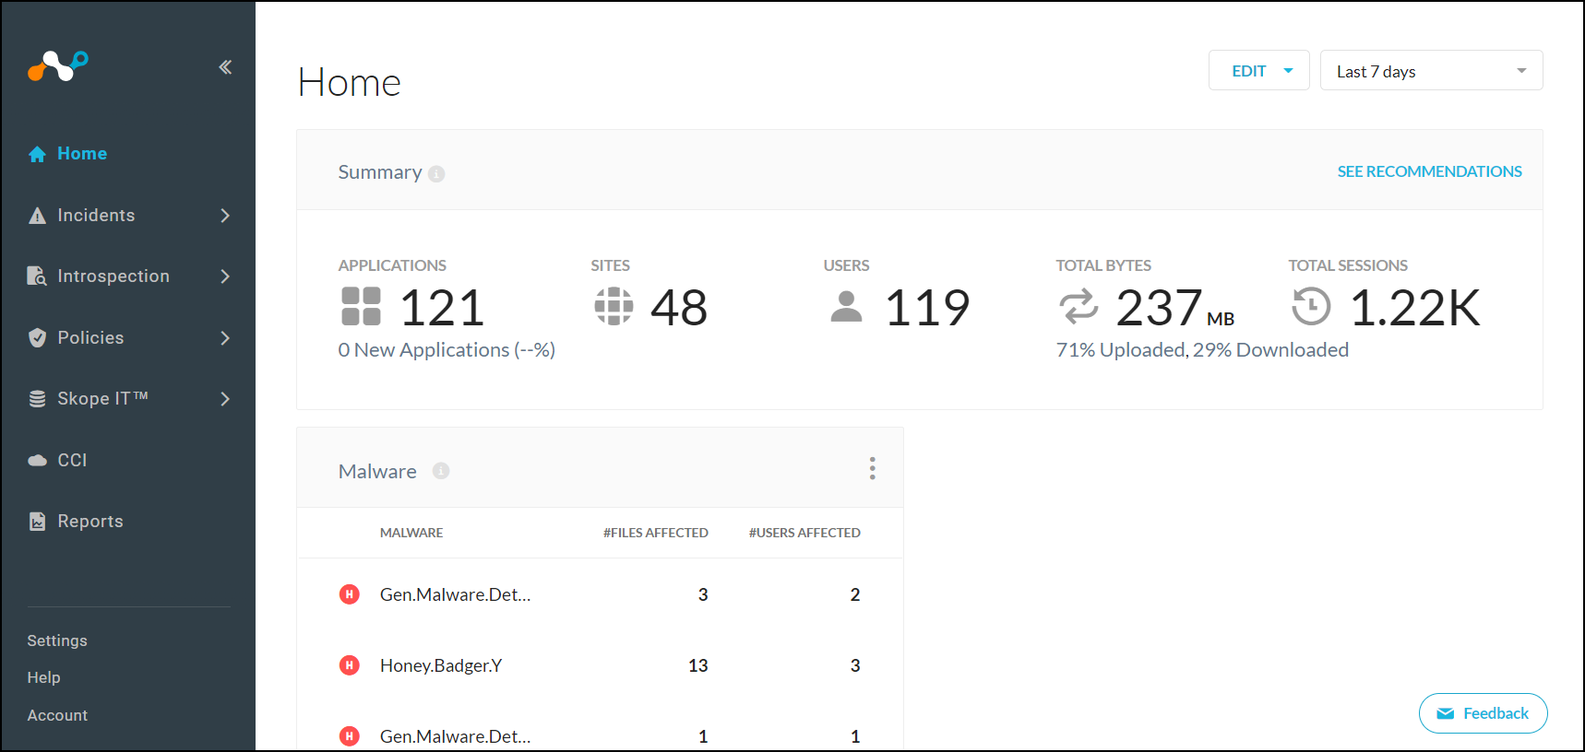
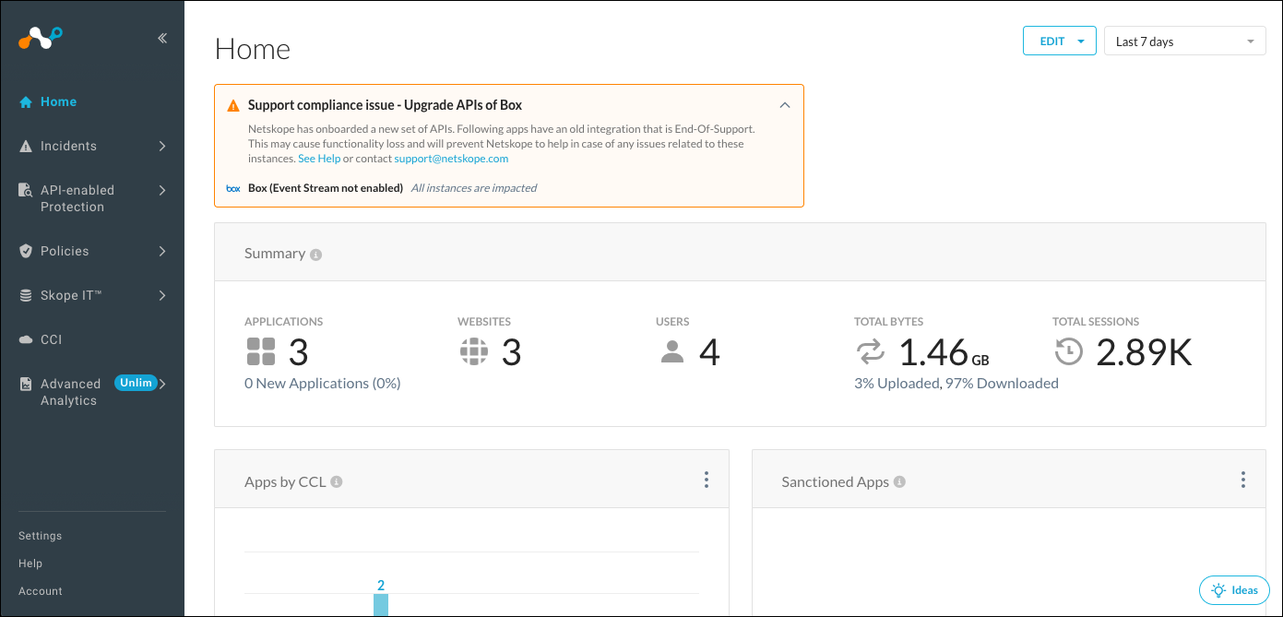
Per Feedback request
update this topic and images.

diff --git a/en/about-the-admin-console.html b/en/about-the-admin-console.html
@@ -1,9 +1,9 @@
 <!DOCTYPE html>
 <html xmlns="http://www.w3.org/1999/xhtml" lang="en" xml:lang="en" dir="ltr"><head><meta http-equiv="Content-Type" content="text/html; charset=UTF-8"/>
-<meta http-equiv="x-ua-compatible" content="IE=edge"></meta><meta name="format-detection" content="telephone=no"></meta><meta name="viewport" content="width=device-width, initial-scale=1, maximum-scale=1, user-scalable=0"></meta><meta name="search" content="default"></meta><meta name="use.ic" content="no"></meta><meta name="tocstandalone" content="yes"></meta><meta name="theme" content="1"></meta><meta name="search.placeholder" content="Search"></meta><meta name="search.results" content="Search results"></meta><meta name="no.search.results" content="No results found"></meta><script type="text/javascript">
+<meta http-equiv="x-ua-compatible" content="IE=edge"></meta><meta name="format-detection" content="telephone=no"></meta><meta name="viewport" content="width=device-width, initial-scale=1"></meta><meta name="search" content="default"></meta><meta name="use.ic" content="no"></meta><meta name="tocstandalone" content="yes"></meta><meta name="theme" content="1"></meta><meta name="search.placeholder" content="Search"></meta><meta name="search.results" content="Search results"></meta><meta name="no.search.results" content="No results found"></meta><script type="text/javascript">
 var theme = '1';
 
-			
+
 			var versionsfile = '';
 
 
@@ -11,21 +11,21 @@ var theme = '1';
 			var store = {};
 			var portalLanguage = 'en';
 			var enterKey = 'select';
-			
-			
+
+
 				var fuse_threshold = 0.3;
-			
+
 					var local_csh = false;
-				
+
 					var anchoroption = true;
-				
-			
+				var instantsearch_minlength = 1;
+
 			var useanchorlinks = false;
-			
+
 				useanchorlinks = true;
-				
+
 				var clicktocopy = 'Click to copy link';
-				var linkcopied =  'Copied!';</script><title>About the Admin Console</title><link rel="stylesheet" type="text/css" href="../css/docbook.css"></link><link rel="stylesheet" type="text/css" href="../css/font-awesome.css"></link><link rel="stylesheet" type="text/css" href="../css/roboto.font.css"></link><link rel="stylesheet" type="text/css" href="../css/theme1.css"></link><link rel="stylesheet" type="text/css" href="../css/theme1-colors.css"></link><link rel="stylesheet" type="text/css" href="../css/content-theme2.css"></link><link rel="stylesheet" type="text/css" href="../css/sm-core-css.css"></link><link rel="stylesheet" type="text/css" href="../css/sm-simple.css"></link><link rel="stylesheet" type="text/css" href="../css/style-print.css"></link><link rel="stylesheet" type="text/css" href="../css/style-common.css"></link><link rel="stylesheet" type="text/css" href="../css/style-modern-tables.css"></link><link rel="stylesheet" type="text/css" href="../css/rwd-table.min.css"></link><link rel="stylesheet" type="text/css" href="../css/graphical-lists.css"></link><link rel="stylesheet" type="text/css" href="../css/layout-custom-style.css"></link><script src="../js/jquery-3/jquery-3.4.1.min.js" type="text/javascript"></script><script src="../js/jquery-migrate-3.0.1.min.js" type="text/javascript"></script><script src="../js/materialize.min.js" type="text/javascript"></script><script src="../js/bootstrap.min.js" type="text/javascript"></script><script src="../js/purl.js" type="text/javascript"></script><script src="../js/jquery.smartmenus.js" type="text/javascript"></script><script src="js/toc.js" type="text/javascript"></script><script src="../js/create-toc.js" type="text/javascript"></script><script src="../js/html5-2-mp-common.js" type="text/javascript"></script><script src="../js/html5-2.js" type="text/javascript"></script><script src="../js/checklist.js" type="text/javascript"></script><script src="../js/rwd-table.min.js" type="text/javascript"></script><script src="../js/responsive-tables.js" type="text/javascript"></script><script src="../js/clipboard.min.js" type="text/javascript"></script><script src="../js/anchorlinks.js" type="text/javascript"></script><script src="../js/lunr.js" type="text/javascript"></script><script src="../js/jquery.mark.min.js" type="text/javascript"></script><script src="js/data.js" type="text/javascript"></script><script src="../js/search.js" type="text/javascript"></script><script src="../js/csh.js" type="text/javascript"></script><script src="../js/jquery.paligocode.js" type="text/javascript"></script><script src="../js/layout-custom-script.js" type="text/javascript"></script><meta name="generator" content="Paligo"></meta><link rel="prev" href="deployment-options.html#idm45652911118640" title="Product Deployments"></link><link rel="next" href="getting-started-microlearning-video-library.html" title="Getting Started Microlearning Video Library"></link><script type="text/javascript" src="https://cdnjs.cloudflare.com/ajax/libs/mathjax/2.7.1/MathJax.js?config=TeX-MML-AM_CHTML" async="async"></script><link rel="icon" href="/favicon.ico" type="image/x-icon"></link><script type="text/javascript">var containerid = 'GTM-W56WJ8S';
+				var linkcopied =  'Copied!';</script><title>About the Admin Console</title><link rel="stylesheet" type="text/css" href="../css/docbook.css"></link><link rel="stylesheet" type="text/css" href="../css/font-awesome.css"></link><link rel="stylesheet" type="text/css" href="../css/roboto.font.css"></link><link rel="stylesheet" type="text/css" href="../css/theme1.css"></link><link rel="stylesheet" type="text/css" href="../css/theme1-colors.css"></link><link rel="stylesheet" type="text/css" href="../css/content-theme2.css"></link><link rel="stylesheet" type="text/css" href="../css/sm-core-css.css"></link><link rel="stylesheet" type="text/css" href="../css/sm-simple.css"></link><link rel="stylesheet" type="text/css" href="../css/style-print.css"></link><link rel="stylesheet" type="text/css" href="../css/style-common.css"></link><link rel="stylesheet" type="text/css" href="../css/style-modern-tables.css"></link><link rel="stylesheet" type="text/css" href="../css/rwd-table.min.css"></link><link rel="stylesheet" type="text/css" href="../css/graphical-lists.css"></link><link rel="stylesheet" type="text/css" href="../css/layout-custom-style.css"></link><script src="../js/jquery-3/jquery-3.4.1.min.js" type="text/javascript"></script><script src="../js/jquery-migrate-3.0.1.min.js" type="text/javascript"></script><script src="../js/materialize.min.js" type="text/javascript"></script><script src="../js/bootstrap.min.js" type="text/javascript"></script><script src="../js/purl.js" type="text/javascript"></script><script src="../js/jquery.smartmenus.js" type="text/javascript"></script><script src="js/toc.js" type="text/javascript"></script><script src="../js/create-toc.js" type="text/javascript"></script><script src="../js/html5-2-mp-common.js" type="text/javascript"></script><script src="../js/html5-2.js" type="text/javascript"></script><script src="../js/checklist.js" type="text/javascript"></script><script src="../js/rwd-table.min.js" type="text/javascript"></script><script src="../js/responsive-tables.js" type="text/javascript"></script><script src="../js/clipboard.min.js" type="text/javascript"></script><script src="../js/anchorlinks.js" type="text/javascript"></script><script src="../js/lunr.js" type="text/javascript"></script><script src="../js/jquery.mark.min.js" type="text/javascript"></script><script src="js/data.js" type="text/javascript"></script><script src="../js/search.js" type="text/javascript"></script><script src="../js/csh.js" type="text/javascript"></script><script src="../js/jquery.paligocode.js" type="text/javascript"></script><script src="../js/layout-custom-script.js" type="text/javascript"></script><meta name="generator" content="Paligo"></meta><link rel="prev" href="getting-started.html" title="Getting Started"></link><link rel="next" href="deployment-options.html" title="Deployment Options"></link><script type="text/javascript" src="https://cdnjs.cloudflare.com/ajax/libs/mathjax/2.7.1/MathJax.js?config=TeX-MML-AM_CHTML" async="async"></script><link rel="icon" href="/favicon.ico" type="image/x-icon"></link><script type="text/javascript">var containerid = 'GTM-W56WJ8S';
 
 						(function(w,d,s,l,i){w[l]=w[l]||[];w[l].push({'gtm.start':
 						new Date().getTime(),event:'gtm.js'});var f=d.getElementsByTagName(s)[0],
@@ -40,10 +40,12 @@ var theme = '1';
 				if (!document.documentMode) {
 				$('.materialboxed').materialbox();
 				}});
-			</script></head><body class="theme1 fixed-toolbar colored-top page-toc collapsible-sidebar-nav current-toc-section-focus" data-spy="scroll" data-target=".section-nav-container" data-offset="100" data-link-prefix=""><header class="site-header"><nav class="site-header-navbar navbar navbar-fixed-top"><div class="navbar-container"><div class="navbar-header"><button type="button" class="navbar-toggle collapsed" data-toggle="collapse" data-target=".site-sidebar" aria-expanded="false" aria-controls="navbar"><span class="sr-only">Toggle navigation</span><span class="icon-bar"></span><span class="icon-bar"></span><span class="icon-bar"></span></button><div id="logotype-container" class="pull-left"><a class="navbar-brand" href="../index.html?lang=en"><img id="logotype-pageheader" src="../css/image/corporate-logo.png" alt="Corporate logotype" data-role="logotype" class="logo"></img></a></div></div><div id="navbar" class="navbar-collapse collapse"></div></div></nav></header><div class="site-body"><div class="site-body-container"><div class="site-body-row"><aside class="site-sidebar"><div class="site-sidebar-header"><button type="button" class="navbar-toggle" aria-controls="nav-site-sidebar"><span class="sr-only">Toggle navigation</span><span class="icon-bar"></span><span class="icon-bar"></span><span class="icon-bar"></span></button><a href="../index.html?lang=en"><img id="logotype-pageheader" src="../css/image/corporate-logo.png" alt="Corporate logotype" data-role="logotype" class="logo"></img></a></div><form class="site-sidebar-search" autocomplete="off"><input type="text" class="form-control search-field" placeholder="Search" id="aa-search-input"></input></form><div id="toc-standalone-placeholder"></div></aside><div class="site-content"><h1 class="publication-title">Netskope Help</h1><div class="toolbar"><div class="toolbar-tools"><div id="navbar" class="navbar-collapse collapse"></div><div class="tool-print print-icon"><a onclick="window.print();return false;"><i class="fa fa-print" aria-hidden="true"><span class="print-text">print</span></i></a></div><div class="tool-search"><i class="fa fa-search" aria-hidden="true"></i></div><button type="button" class="navbar-toggle collapsed" data-toggle="collapse" data-target=".site-sidebar" aria-expanded="false" aria-controls="navbar"><span class="sr-only">Toggle navigation</span><span class="icon-bar"></span><span class="icon-bar"></span><span class="icon-bar"></span></button></div><div class="breadcrumb-container"><ul class="breadcrumb"><li class="breadcrumb-link"> <a href="index-en.html">Netskope Help</a></li><li class="breadcrumb-link"><a href="getting-started.html">Getting Started</a></li><li class="breadcrumb-node">About the Admin Console</li></ul></div></div><main><div id="top-pager"><ul class="pager"><li class="previous"><a accesskey="p" id="header-navigation-prev" class="pull-left prev visible-lg visible-md" href="deployment-options.html#idm45652911118640">Prev</a></li><li class="next"><a accesskey="n" id="header-navigation-next" class="pull-right next visible-lg visible-md" href="getting-started-microlearning-video-library.html">Next</a></li></ul></div><article class="topic content-container" id="content-wrapper"><div id="topic-content" class="topic-content"><section xml:lang="en" lang="en" dir="ltr" class="section original-topic original-topic" data-origin-id="UUID-0b39372f-9246-f371-61de-c35c41332bf5" data-permalink="about-the-admin-console.html" data-topic-level="1" data-relative-prefix="" data-time-modified="October 13, 2021" data-publication-date="" id="UUID-4750c682-20b9-6623-91d4-6f69b5649796"><div class="titlepage"><div><div class="title"><h3 class="title">About the Admin Console</h3></div></div></div><p>The admin console provides the central interface for configuring the settings of the Netskope Active Platform in addition to performing a variety of functions from creating reports to managing incidents. There are two primary areas of the admin console: Settings and Functions.</p><p><span class="bold bold"><strong>SETTINGS</strong></span></p><p>Settings are accessible by clicking <span class="bold bold"><strong>Settings</strong></span> in the bottom of the left nav on the Home page.</p><div class="mediaobject"><table class="image-viewport" style="border-collapse:collapse;border:0;
-                                width:640px;
-                            "><tr style="height: 300px"><td style="padding:0;"><img src="image/uuid-4e5224e8-ba33-4a0c-2980-7ca36f0b01c7.png" style="max-width: 640px; max-height: 300px; " alt="HomePage.png" title="HomePage.png"></img></td></tr></table></div><p>This opens the Settings page.</p><div class="mediaobject"><table class="image-viewport" style="border-collapse:collapse;border:0;
-                                width:641px;
-                            "><tr style="height: 331px"><td style="padding:0;"><img src="image/uuid-30fed9db-1737-8eba-82d3-9a9a455ce4a1.png" style="max-width: 641px; max-height: 331px; " alt="SettingsPage.png" title="SettingsPage.png"></img></td></tr></table></div><p>The Settings page left nav panel contains these links:</p><p><span class="bold bold"><strong>Administration</strong></span></p><p>Add admins to the management console, define and assign roles, and configure SSO and IP whitelist setting for the management console itself.</p><p><span class="bold bold"><strong>Active Platform</strong></span></p><p>Configure the optional on-premises infrastructure components of the Netskope Active Platform in addition to managing client traffic steering deployments, reverse proxy configurations, and exceptions.</p><p><span class="bold bold"><strong>Discovery</strong></span></p><p>Upload logs to your Netskope tenant. You can uploads logs directly via the UI or via SFTP. There is also a custom log parser.</p><p><span class="bold bold"><strong>Introspection Instances</strong></span></p><p>Configure API Introspection to connect to your IT-led, sanctioned cloud services</p><p><span class="bold bold"><strong>Threat Protection</strong></span></p><p>Options for configuring your Introspection-configured cloud services for malware protection in addition to configuring integration with Carbon Black.</p><p><span class="bold bold"><strong>Incident Management</strong></span></p><p>Enable forensics and setup a forensics profile.</p><p><span class="bold bold"><strong>Manage</strong></span></p><p>Settings for traffic steering, custom apps, certificate-pinned apps, and device classification.</p><p><span class="bold bold"><strong>Tools</strong></span></p><p>Create templates, configure directory tools, REST API, clear events, and get an uptime status.</p><p><span class="bold bold"><strong>FUNCTIONS</strong></span></p><p>The Netskope Admin Console provides access to a number of functions. Functions are presented in the left nav panel.</p><div class="mediaobject"><table class="image-viewport" style="border-collapse:collapse;border:0;
-                                width:650px;
-                            "><tr style="height: 309px"><td style="padding:0;"><img src="image/uuid-caa411e2-72be-1f51-177a-db966a9f6f00.png" style="max-width: 650px; max-height: 309px; " alt="HomePage2.png" title="HomePage2.png"></img></td></tr></table></div><p><span class="bold bold"><strong>Dashboard (Home)</strong></span></p><p>Assess cloud risk by viewing information about applications, sites, users, total bytes, and total sessions. Customize this dashboard to display the information you want.</p><p><span class="bold bold"><strong>Incidents</strong></span></p><p>The Incidents dashboard displays data loss prevention (DLP), anomalies, compromised credentials, malware, malicious sites, quarantine, and legal hold information.</p><p><span class="bold bold"><strong>Introspection</strong></span></p><p>The Introspection Dashboard provides visibility into file exposure for your sanctioned cloud services that have been configured with API Introspection. Assess your risk and optionally take action directly from the dashboard.</p><p><span class="bold bold"><strong>Policies</strong></span></p><p>Implement inline and API Introspection policies, encryption, DLP, and threat protection. Customize policies with profiles and templates.</p><p><span class="bold bold"><strong>Skope IT</strong></span></p><p>Use Skope IT, Netskope's event-by-event monitoring tool, to view cloud usage events, manage alerts, interface with quarantine, legal hold, and threat threat protection dashboards, and manage incidents.</p><p><span class="bold bold"><strong>Cloud Confidence Index</strong></span></p><p>Peruse the database of thousands of cloud services that have been researched and the enterprise-readiness assessed. Filter view by discovered apps or drill into the details of a specific cloud service.</p><p><span class="bold bold"><strong>Reports</strong></span></p><p>The Reports dashboard displays summaries and allows you to create custom reports.</p></section><div class="footer-content"><div class="section-toc section-toc-after"><div class="section-toc-title">In this section<span class="section-toc-title-delimiter">: </span></div></div><div class="glossary-definitions"></div></div><footer></footer></div></article><article id="search-result-wrapper"><div class="search-container" style="display: none;"><h2>Search results</h2><ul class="searchresults"></ul><p class="noresults">No results found</p></div></article><div class="feedback-panel"><div id="email-feedback" class="no-voting toggle-feedback"><p><a href="mailto:techpubs@netskope.com?subject=Feedback%20for%20help%20topic%20%22About%20the%20Admin%20Console%22&amp;body=%0A%09%09%09%09%0A%09%09%09%09%0A%09%09%09%09_______________________%0A%09%09%09%09%0A%09%09%09Please%20add%20your%20feedback%20above%20for%20topic%20%22About%20the%20Admin%20Console%22%20in%20the%20publication%20%22Netskope%20Help%22."><i aria-hidden="true" class="fa fa-pencil-square-o feedbackicon"></i>Would you like to provide feedback? Just click here to suggest edits.</a></p></div></div></main><div id="bottom-pager"><ul class="pager"><li class="previous"><a accesskey="p" id="header-navigation-prev" class="pull-left prev visible-lg visible-md" href="deployment-options.html#idm45652911118640">Prev</a></li><li class="next"><a accesskey="n" id="header-navigation-next" class="pull-right next visible-lg visible-md" href="getting-started-microlearning-video-library.html">Next</a></li></ul></div><footer class="site-footer"><div class="inner"><div class="copyright"> © 2021 Netskope </div><div class="date-modified"><span class="date-modified-text">Last modified: </span><span class="formatted-date">October 13, 2021</span></div><div class="publication-date"><span class="publication-date-text">Publication date</span><span class="pubdate-delimiter">: </span><span class="formatted-date"></span></div></div></footer></div></div></div></div><!--Google Tag Manager (noscript)--><noscript><iframe src="https://www.googletagmanager.com/ns.html?id=GTM-W56WJ8S" height="0" width="0" style="display:none;visibility:hidden"></iframe></noscript><!--End Google Tag Manager (noscript)--></body></html>
+			</script></head><body class="theme1 fixed-toolbar colored-top page-toc collapsible-sidebar-nav current-toc-section-focus" data-spy="scroll" data-target=".section-nav-container" data-offset="100" data-link-prefix=""><header class="site-header"><nav class="site-header-navbar navbar navbar-fixed-top"><div class="navbar-container"><div class="navbar-header"><button type="button" class="navbar-toggle collapsed" data-toggle="collapse" data-target=".site-sidebar" aria-expanded="false" aria-controls="navbar"><span class="sr-only">Toggle navigation</span><span class="icon-bar"></span><span class="icon-bar"></span><span class="icon-bar"></span></button><div id="logotype-container" class="pull-left"><a class="navbar-brand" href="../index.html?lang=en"><img id="logotype-pageheader" src="../css/image/corporate-logo.png" alt="Corporate logotype" data-role="logotype" class="logo"></img></a></div></div><div id="navbar" class="navbar-collapse collapse"></div></div></nav></header><div class="site-body"><div class="site-body-container"><div class="site-body-row"><aside class="site-sidebar"><div class="site-sidebar-header"><button type="button" class="navbar-toggle" aria-controls="nav-site-sidebar"><span class="sr-only">Toggle navigation</span><span class="icon-bar"></span><span class="icon-bar"></span><span class="icon-bar"></span></button><a href="../index.html?lang=en"><img id="logotype-pageheader" src="../css/image/corporate-logo.png" alt="Corporate logotype" data-role="logotype" class="logo"></img></a></div><form class="site-sidebar-search" autocomplete="off"><input type="text" class="form-control search-field" placeholder="Search" id="aa-search-input"></input></form><div id="toc-standalone-placeholder"></div></aside><div class="site-content"><h1 class="publication-title">Netskope Help</h1><div class="toolbar"><div class="toolbar-tools"><div id="navbar" class="navbar-collapse collapse"></div><div class="tool-print print-icon"><a onclick="window.print();return false;"><i class="fa fa-print" aria-hidden="true"><span class="print-text">print</span></i></a></div><div class="tool-search"><i class="fa fa-search" aria-hidden="true"></i></div><button type="button" class="navbar-toggle collapsed" data-toggle="collapse" data-target=".site-sidebar" aria-expanded="false" aria-controls="navbar"><span class="sr-only">Toggle navigation</span><span class="icon-bar"></span><span class="icon-bar"></span><span class="icon-bar"></span></button></div><div class="breadcrumb-container"><ul class="breadcrumb"><li class="breadcrumb-link"><a href="index-en.html">Netskope Help</a></li><li class="breadcrumb-link"><a href="getting-started.html">Getting Started</a></li><li class="breadcrumb-node">About the Admin Console</li></ul></div></div><main><div id="top-pager"><ul class="pager"><li class="previous"><a accesskey="p" id="header-navigation-prev" class="pull-left prev visible-lg visible-md" href="getting-started.html">Prev</a></li><li class="next"><a accesskey="n" id="header-navigation-next" class="pull-right next visible-lg visible-md" href="deployment-options.html">Next</a></li></ul></div><article class="topic content-container" id="content-wrapper"><div id="topic-content" class="topic-content"><section xml:lang="en" lang="en" dir="ltr" class="section original-topic original-topic" data-origin-id="UUID-0b39372f-9246-f371-61de-c35c41332bf5" data-permalink="about-the-admin-console.html" data-topic-level="1" data-relative-prefix="" data-time-modified="February 2, 2022" data-publication-date="" id="UUID-4750c682-20b9-6623-91d4-6f69b5649796"><div class="titlepage"><div><div class="title"><h3 class="title">About the Admin Console</h3></div></div></div><p>The Admin Console provides a central interface for configuring the settings of the Netskope Security Platform in addition to performing a variety of functions, like creating reports to managing incidents. To begin, log in your Netskope Tenant. </p><div class="mediaobject"><table class="image-viewport" style="border-collapse:collapse;border:0;
+                                width:450px;
+                            "><tr><td style="padding:0;"><img src="image/uuid-5c820a6c-c7c3-68dd-cdcc-b8b6bad73fea.png" style="max-width: 450px; " alt="tenant-login.png" title="tenant-login.png"></img></td></tr></table></div><p>There are two primary areas of the Admin Console: Settings and Functions.</p><h4 id="UUID-4750c682-20b9-6623-91d4-6f69b5649796_bridgehead-idm4542587897977632875202757915" class="bridgehead">Settings</h4><p>Settings are accessible by clicking <span class="bold bold"><strong>Settings</strong></span> in the bottom of the left nav on the Home page.</p><div class="mediaobject"><table class="image-viewport" style="border-collapse:collapse;border:0;
+                                width:450px;
+                            "><tr><td style="padding:0;"><img src="image/uuid-4e5224e8-ba33-4a0c-2980-7ca36f0b01c7.png" style="max-width: 450px; " alt="HomePage.png" title="HomePage.png"></img></td></tr></table></div><p>This opens the Settings page, which provides general information.</p><div class="mediaobject"><table class="image-viewport" style="border-collapse:collapse;border:0;
+                                width:450px;
+                            "><tr><td style="padding:0;"><img src="image/uuid-30fed9db-1737-8eba-82d3-9a9a455ce4a1.png" style="max-width: 450px; " alt="SettingsPage.png" title="SettingsPage.png"></img></td></tr></table></div><p>The Settings page left nav panel contains these links:</p><p><span class="bold bold"><strong>Admin</strong></span></p><p>Add admins to the management console, define and assign roles, and configure SSO and IP whitelist setting for the management console itself.</p><p><span class="bold bold"><strong>Security Cloud Platform</strong></span></p><p>Configure the optional on-premises infrastructure components of the Netskope Active Platform in addition to managing client traffic steering deployments, reverse proxy configurations, and exceptions.</p><p><span class="bold bold"><strong>Risk Insights</strong></span></p><p>Upload logs to your Netskope tenant. You can uploads logs directly via the UI or via SFTP. There is also a custom log parser.</p><p><span class="bold bold"><strong>API-enable Protectioin</strong></span></p><p>Configure API Introspection to connect to your IT-led, sanctioned cloud services.</p><p><span class="bold bold"><strong>Threat Protection</strong></span></p><p>Options for configuring your Introspection-configured cloud services for malware protection in addition to configuring integration with Carbon Black.</p><p><span class="bold bold"><strong>Forensics</strong></span></p><p>Enable forensics and setup a forensics profile.</p><p><span class="bold bold"><strong>Manage</strong></span></p><p>Settings for traffic steering, custom apps, certificate-pinned apps, and device classification.</p><p><span class="bold bold"><strong>Tools</strong></span></p><p>Create templates, configure directory tools, REST API, and clear events.</p><h4 id="idm45558878471536" class="bridgehead">Functions</h4><p>The Netskope Admin Console provides access to a number of functions. Functions are presented in the left nav panel.</p><div class="mediaobject"><table class="image-viewport" style="border-collapse:collapse;border:0;
+                                width:450px;
+                            "><tr><td style="padding:0;"><img src="image/uuid-caa411e2-72be-1f51-177a-db966a9f6f00.png" style="max-width: 450px; " alt="HomePage2.png" title="HomePage2.png"></img></td></tr></table></div><p><span class="bold bold"><strong>Dashboard (Home)</strong></span></p><p>Assess cloud risk by viewing information about applications, sites, users, total bytes, and total sessions. Customize this dashboard to display the information you want.</p><p><span class="bold bold"><strong>Incidents</strong></span></p><p>The Incidents dashboard displays data loss prevention (DLP), anomalies, compromised credentials, malware, malicious sites, quarantine, and legal hold information.</p><p><span class="bold bold"><strong>API-enabled Protection</strong></span></p><p>The API-enabled Protection dashboard provides visibility into file exposure for your sanctioned cloud services that have been configured with API Introspection. Assess your risk and optionally take action directly from the dashboard.</p><p><span class="bold bold"><strong>Policies</strong></span></p><p>Implement inline and API Introspection policies, encryption, DLP, and threat protection. Customize policies with profiles and templates.</p><p><span class="bold bold"><strong>Skope IT</strong></span></p><p>Use Skope IT, Netskope's event-by-event monitoring tool, to view cloud usage events, manage alerts, interface with quarantine, legal hold, and threat threat protection dashboards, and manage incidents.</p><p><span class="bold bold"><strong>Cloud Confidence Index</strong></span></p><p>Peruse the database of thousands of cloud services that have been researched and the enterprise-readiness assessed. Filter view by discovered apps or drill into the details of a specific cloud service.</p><p><span class="bold bold"><strong>Advanced Analytics</strong></span></p><p>The Advanced Analytics dashboard displays summaries, and enables you to in-depth analysis and create custom reports.</p></section><div class="footer-content"><div class="section-toc section-toc-after"><div class="section-toc-title">In this section<span class="section-toc-title-delimiter">: </span></div></div><div class="glossary-definitions"></div></div><footer></footer></div></article><article id="search-result-wrapper"><div class="search-container" style="display: none;"><h2>Search results</h2><ul class="searchresults"></ul><p class="noresults">No results found</p></div></article><div class="feedback-panel"><div id="email-feedback" class="no-voting toggle-feedback"><p><a href="mailto:techpubs@netskope.com?subject=Feedback%20for%20help%20topic%20%22About%20the%20Admin%20Console%22&amp;body=%0A%09%09%09%09%0A%09%09%09%09%0A%09%09%09%09_______________________%0A%09%09%09%09%0A%09%09%09Please%20add%20your%20feedback%20above%20for%20topic%20%22About%20the%20Admin%20Console%22%20in%20the%20publication%20%22Netskope%20Help%22."><i aria-hidden="true" class="fa fa-pencil-square-o feedbackicon"></i>Would you like to provide feedback? Just click here to suggest edits.</a></p></div></div></main><div id="bottom-pager"><ul class="pager"><li class="previous"><a accesskey="p" id="header-navigation-prev" class="pull-left prev visible-lg visible-md" href="getting-started.html">Prev</a></li><li class="next"><a accesskey="n" id="header-navigation-next" class="pull-right next visible-lg visible-md" href="deployment-options.html">Next</a></li></ul></div><footer class="site-footer"><div class="inner"><div class="copyright"> © 2022 Netskope </div><div class="date-modified"><span class="date-modified-text">Last modified: </span><span class="formatted-date">February 2, 2022</span></div><div class="publication-date"><span class="publication-date-text">Publication date</span><span class="pubdate-delimiter">: </span><span class="formatted-date"></span></div></div></footer></div></div></div></div><!--Google Tag Manager (noscript)--><noscript><iframe src="https://www.googletagmanager.com/ns.html?id=GTM-W56WJ8S" height="0" width="0" style="display:none;visibility:hidden"></iframe></noscript><!--End Google Tag Manager (noscript)--></body></html>
